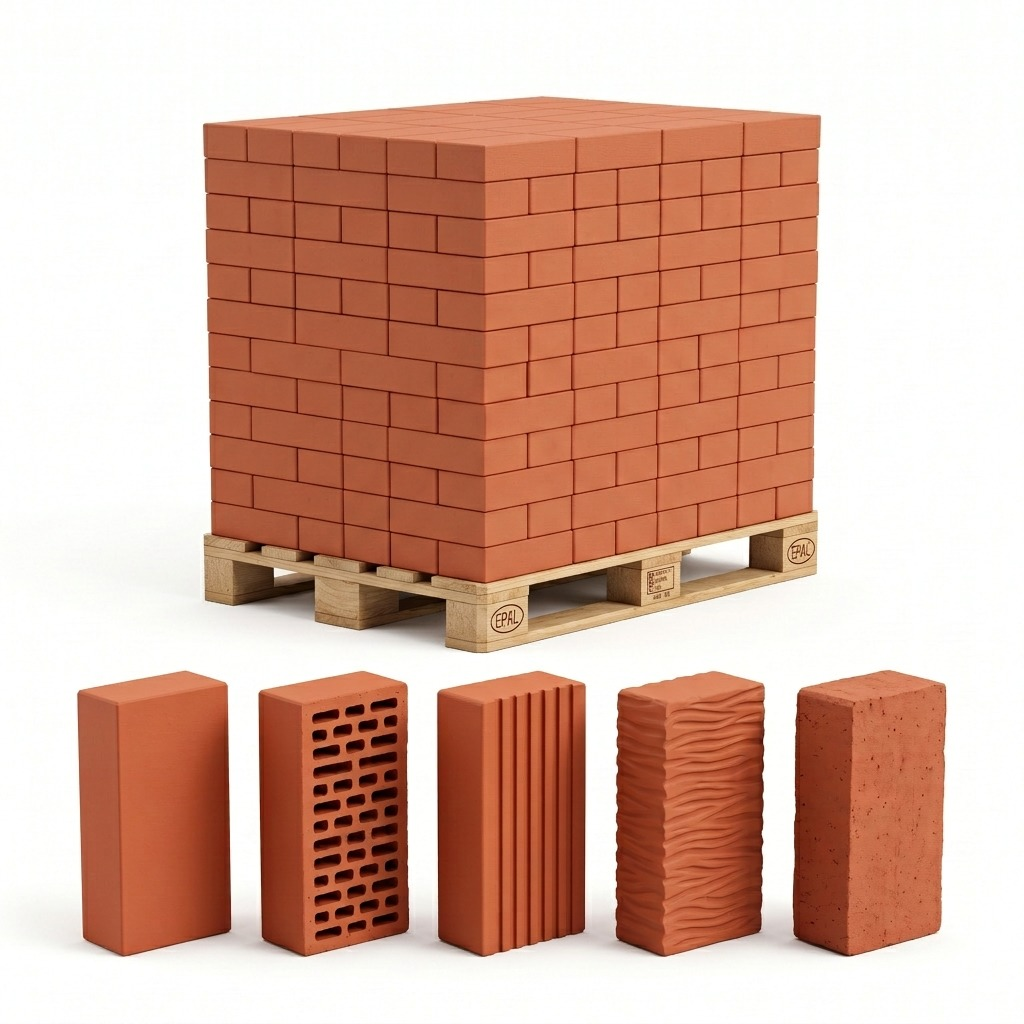
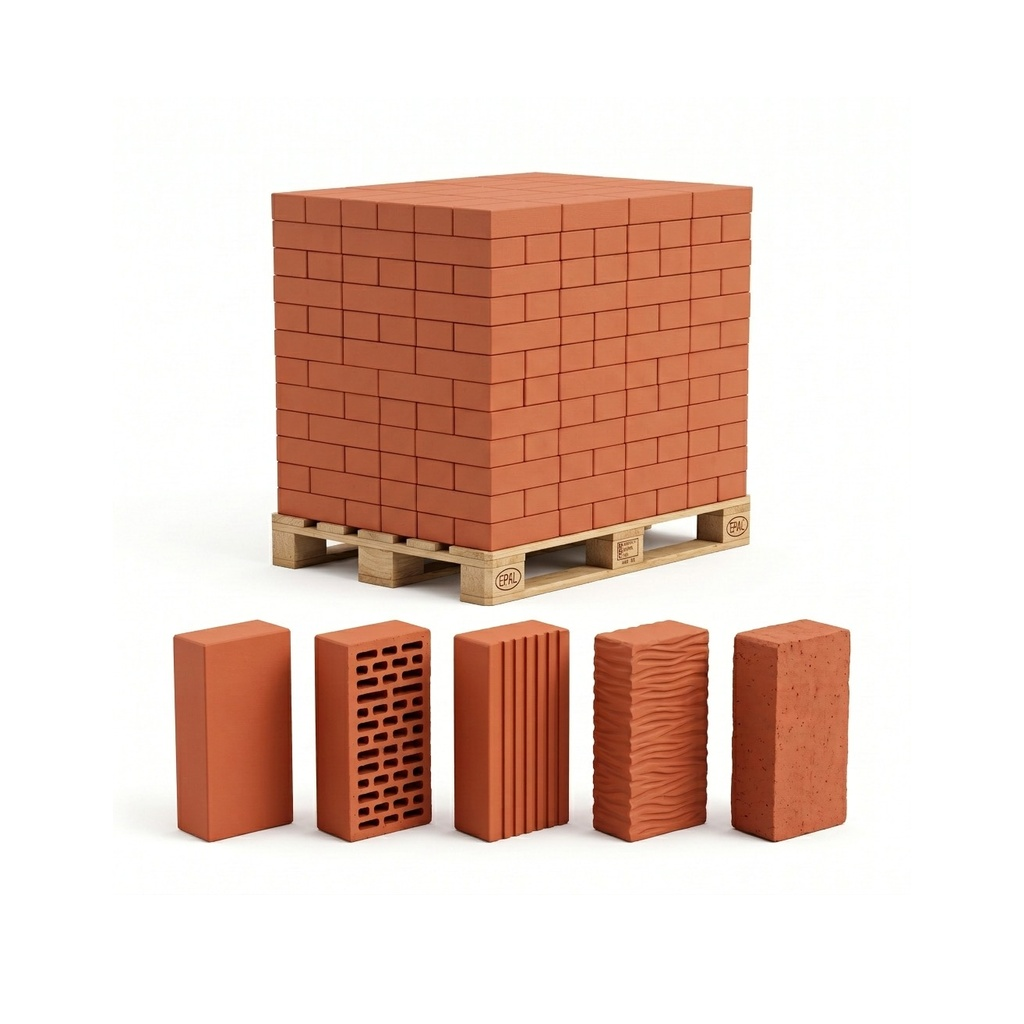
fix(catalog): выравнивание и кадрирование изображений первых трех категорий

diff --git a/index.html b/index.html
@@ -55,8 +55,8 @@
 
   <section class="hero">
     <picture>
-      <source media="(max-width: 47.9375em)" srcset="img/hero-home-mobile.jpg?v=10">
-      <img class="hero-photo" src="img/hero-home.jpg?v=10"
+      <source media="(max-width: 47.9375em)" srcset="img/hero-home-mobile.jpg?v=11">
+      <img class="hero-photo" src="img/hero-home.jpg?v=11"
            alt="Дом, облицованный кирпичом из каталога"
            width="1900" height="1010" fetchpriority="high">
     </picture>
@@ -87,12 +87,12 @@
 
   <section class="section" id="catalog"><div class="wrap">
     <div class="section-head"><h2>Каталог</h2></div>
-    <div class="tiles"><a class="tile" href="kirpich-oblitsovochnyy.html"><strong>Облицовочный кирпич<span>264&nbsp;вида, от&nbsp;18,50&nbsp;₽/шт</span></strong><img src="img/cat-oblic.jpg?v=10" alt="" width="320" height="240" loading="lazy"></a><a class="tile" href="kirpich-zabutovochnyy.html"><strong>Забутовочный кирпич<span>Фундамент, стены, перегородки</span></strong><img src="img/cat-brick.jpg?v=10" alt="" width="320" height="240" loading="lazy"></a><a class="tile" href="trotuarnaya-plitka.html"><strong>Тротуарная плитка<span>32&nbsp;расцветки в&nbsp;7&nbsp;формах, от&nbsp;650&nbsp;₽/м²</span></strong><img src="img/cat-tile.jpg?v=10" alt="" width="320" height="240" loading="lazy"></a><a class="tile" href="krovlya.html"><strong>Кровля и&nbsp;фасад<span>Металлочерепица, профнастил, штакетник, сайдинг</span></strong><img src="img/cat-roof.jpg?v=10" alt="" width="320" height="240" loading="lazy"></a><a class="tile" href="krovlya-sayding.html"><strong>Металлосайдинг<span>Фасад и&nbsp;софиты, 22&nbsp;цвета</span></strong><img src="img/cat-sayding.jpg?v=10" alt="" width="320" height="240" loading="lazy"></a></div>
+    <div class="tiles"><a class="tile" href="kirpich-oblitsovochnyy.html"><strong>Облицовочный кирпич<span>264&nbsp;вида, от&nbsp;18,50&nbsp;₽/шт</span></strong><img src="img/cat-oblic.jpg?v=11" alt="" width="320" height="240" loading="lazy"></a><a class="tile" href="kirpich-zabutovochnyy.html"><strong>Забутовочный кирпич<span>Фундамент, стены, перегородки</span></strong><img src="img/cat-brick.jpg?v=11" alt="" width="320" height="240" loading="lazy"></a><a class="tile" href="trotuarnaya-plitka.html"><strong>Тротуарная плитка<span>32&nbsp;расцветки в&nbsp;7&nbsp;формах, от&nbsp;650&nbsp;₽/м²</span></strong><img src="img/cat-tile.jpg?v=11" alt="" width="320" height="240" loading="lazy"></a><a class="tile" href="krovlya.html"><strong>Кровля и&nbsp;фасад<span>Металлочерепица, профнастил, штакетник, сайдинг</span></strong><img src="img/cat-roof.jpg?v=11" alt="" width="320" height="240" loading="lazy"></a><a class="tile" href="krovlya-sayding.html"><strong>Металлосайдинг<span>Фасад и&nbsp;софиты, 22&nbsp;цвета</span></strong><img src="img/cat-sayding.jpg?v=11" alt="" width="320" height="240" loading="lazy"></a></div>
     <p class="note mt">Поставляем также газоблок. Если позиции идут с&nbsp;одного
       завода, отгружаем их одной машиной — транспорт считается один раз.</p>
   </div></section>
 
-  <section class="section"><div class="wrap"><div class="promo-row"><a class="promo promo--accent" href="plitka-staryy-gorod.html"><span class="promo-text"><span class="promo-tag">Форма месяца</span><strong>Плитка «Старый город»</strong><span class="promo-sub">Классическая форма&nbsp;— 24&nbsp;расцветки от&nbsp;650&nbsp;₽/м²</span><span class="go">Подробнее</span></span><img src="img/plitka/shape-staryy-gorod.jpg?v=10" alt="" width="240" height="240" loading="lazy"></a><a class="promo" href="#lead"><span class="promo-text"><span class="promo-tag">Бесплатно</span><strong>Расчёт материала</strong><span class="promo-sub">Пришлите размеры — рассчитаем количество и&nbsp;запас</span><span class="go">Подробнее</span></span><img src="img/plitka/work-06.jpg?v=10" alt="" width="240" height="240" loading="lazy"></a><a class="promo" href="kirpich-oblitsovochnyy.html?sort=new"><span class="promo-text"><span class="promo-tag">Новинки</span><strong>Новые цвета кирпича</strong><span class="promo-sub">Свежие партии заводов — в&nbsp;каталоге облицовочного</span><span class="go">Подробнее</span></span><img src="img/catalog/kla-003.jpg?v=10" alt="" width="240" height="240" loading="lazy"></a></div></div></section>
+  <section class="section"><div class="wrap"><div class="promo-row"><a class="promo promo--accent" href="plitka-staryy-gorod.html"><span class="promo-text"><span class="promo-tag">Форма месяца</span><strong>Плитка «Старый город»</strong><span class="promo-sub">Классическая форма&nbsp;— 24&nbsp;расцветки от&nbsp;650&nbsp;₽/м²</span><span class="go">Подробнее</span></span><img src="img/plitka/shape-staryy-gorod.jpg?v=11" alt="" width="240" height="240" loading="lazy"></a><a class="promo" href="#lead"><span class="promo-text"><span class="promo-tag">Бесплатно</span><strong>Расчёт материала</strong><span class="promo-sub">Пришлите размеры — рассчитаем количество и&nbsp;запас</span><span class="go">Подробнее</span></span><img src="img/plitka/work-06.jpg?v=11" alt="" width="240" height="240" loading="lazy"></a><a class="promo" href="kirpich-oblitsovochnyy.html?sort=new"><span class="promo-text"><span class="promo-tag">Новинки</span><strong>Новые цвета кирпича</strong><span class="promo-sub">Свежие партии заводов — в&nbsp;каталоге облицовочного</span><span class="go">Подробнее</span></span><img src="img/catalog/kla-003.jpg?v=11" alt="" width="240" height="240" loading="lazy"></a></div></div></section>
 
   <section class="band"><div class="wrap">
     <ul class="terms-strip"><li class="brick-mark">Напрямую с&nbsp;заводов</li><li class="brick-mark">Доставка на&nbsp;объект</li><li class="brick-mark">Наличный и&nbsp;безналичный расчёт</li><li class="brick-mark">Бесплатный расчёт количества</li></ul>
@@ -102,25 +102,25 @@
     <div class="section-head"><h2>Кирпич и&nbsp;плитка из&nbsp;каталога</h2>
       <a class="see-all" href="#catalog">Все разделы</a></div>
     <div class="p-grid"><article class="p-card">
-  <div class="p-shot"><img class="p-img" src="img/catalog/kla-024.jpg?v=10" alt="Кирпич Красный" width="640" height="480" loading="lazy"><button class="p-add" type="button" data-add data-add-icon data-id="kla-024" data-name="Кирпич Красный" data-price="22.3" data-unit="шт" data-img="img/catalog/kla-024.jpg" data-url="tovar/kirpich-kla-024.html" data-root="" aria-label="Добавить в заявку: Кирпич Красный" title="В заявку"><svg viewBox="0 0 24 24" fill="none" stroke="currentColor" stroke-width="1.8" stroke-linecap="round" stroke-linejoin="round" aria-hidden="true"><path d="M6 3h9v18l-4.5-3.2L6 21z"/><path d="M18.5 4.5v6M15.5 7.5h6"/></svg></button></div>
+  <div class="p-shot"><img class="p-img" src="img/catalog/kla-024.jpg?v=11" alt="Кирпич Красный" width="640" height="480" loading="lazy"><button class="p-add" type="button" data-add data-add-icon data-id="kla-024" data-name="Кирпич Красный" data-price="22.3" data-unit="шт" data-img="img/catalog/kla-024.jpg" data-url="tovar/kirpich-kla-024.html" data-root="" aria-label="Добавить в заявку: Кирпич Красный" title="В заявку"><svg viewBox="0 0 24 24" fill="none" stroke="currentColor" stroke-width="1.8" stroke-linecap="round" stroke-linejoin="round" aria-hidden="true"><path d="M6 3h9v18l-4.5-3.2L6 21z"/><path d="M18.5 4.5v6M15.5 7.5h6"/></svg></button></div>
   <div class="p-in">
     <a class="p-name" href="tovar/kirpich-kla-024.html">Кирпич Красный</a>
     <p class="p-zavod">Донской кирпич</p><p class="p-price"><b>22,</b><small>30&nbsp;₽/шт</small></p><p class="p-m2">= 1&nbsp;150&nbsp;₽/м² кладки</p><p class="p-stock"><svg viewBox="0 0 24 24" fill="none" stroke="currentColor" stroke-width="1.95" stroke-linecap="round" stroke-linejoin="round" aria-hidden="true"><path d="M4 20V9l8-5 8 5v11"/><path d="M9 20v-6h6v6"/></svg><i>Поставка с&nbsp;завода</i></p>
   </div>
 </article><article class="p-card">
-  <div class="p-shot"><img class="p-img" src="img/catalog/pal-017.jpg?v=10" alt="Кирпич Классика" width="640" height="480" loading="lazy"><button class="p-add" type="button" data-add data-add-icon data-id="pal-017" data-name="Кирпич Классика" data-price="25.64" data-unit="шт" data-img="img/catalog/pal-017.jpg" data-url="tovar/kirpich-pal-017.html" data-root="" aria-label="Добавить в заявку: Кирпич Классика" title="В заявку"><svg viewBox="0 0 24 24" fill="none" stroke="currentColor" stroke-width="1.8" stroke-linecap="round" stroke-linejoin="round" aria-hidden="true"><path d="M6 3h9v18l-4.5-3.2L6 21z"/><path d="M18.5 4.5v6M15.5 7.5h6"/></svg></button></div>
+  <div class="p-shot"><img class="p-img" src="img/catalog/pal-017.jpg?v=11" alt="Кирпич Классика" width="640" height="480" loading="lazy"><button class="p-add" type="button" data-add data-add-icon data-id="pal-017" data-name="Кирпич Классика" data-price="25.64" data-unit="шт" data-img="img/catalog/pal-017.jpg" data-url="tovar/kirpich-pal-017.html" data-root="" aria-label="Добавить в заявку: Кирпич Классика" title="В заявку"><svg viewBox="0 0 24 24" fill="none" stroke="currentColor" stroke-width="1.8" stroke-linecap="round" stroke-linejoin="round" aria-hidden="true"><path d="M6 3h9v18l-4.5-3.2L6 21z"/><path d="M18.5 4.5v6M15.5 7.5h6"/></svg></button></div>
   <div class="p-in">
     <a class="p-name" href="tovar/kirpich-pal-017.html">Кирпич Классика</a>
     <p class="p-zavod">Губский кирпичный завод</p><p class="p-price"><b>25,</b><small>64&nbsp;₽/шт</small></p><p class="p-m2">= 1&nbsp;320&nbsp;₽/м² кладки</p><p class="p-stock"><svg viewBox="0 0 24 24" fill="none" stroke="currentColor" stroke-width="1.95" stroke-linecap="round" stroke-linejoin="round" aria-hidden="true"><path d="M4 20V9l8-5 8 5v11"/><path d="M9 20v-6h6v6"/></svg><i>Поставка с&nbsp;завода</i></p>
   </div>
 </article><article class="p-card">
-  <div class="p-shot"><img class="p-img" src="img/catalog/evr-003.jpg?v=10" alt="Кирпич Венеция Кроста" width="640" height="480" loading="lazy"><button class="p-add" type="button" data-add data-add-icon data-id="evr-003" data-name="Кирпич Венеция Кроста" data-price="47.0" data-unit="шт" data-img="img/catalog/evr-003.jpg" data-url="tovar/kirpich-evr-003.html" data-root="" aria-label="Добавить в заявку: Кирпич Венеция Кроста" title="В заявку"><svg viewBox="0 0 24 24" fill="none" stroke="currentColor" stroke-width="1.8" stroke-linecap="round" stroke-linejoin="round" aria-hidden="true"><path d="M6 3h9v18l-4.5-3.2L6 21z"/><path d="M18.5 4.5v6M15.5 7.5h6"/></svg></button></div>
+  <div class="p-shot"><img class="p-img" src="img/catalog/evr-003.jpg?v=11" alt="Кирпич Венеция Кроста" width="640" height="480" loading="lazy"><button class="p-add" type="button" data-add data-add-icon data-id="evr-003" data-name="Кирпич Венеция Кроста" data-price="47.0" data-unit="шт" data-img="img/catalog/evr-003.jpg" data-url="tovar/kirpich-evr-003.html" data-root="" aria-label="Добавить в заявку: Кирпич Венеция Кроста" title="В заявку"><svg viewBox="0 0 24 24" fill="none" stroke="currentColor" stroke-width="1.8" stroke-linecap="round" stroke-linejoin="round" aria-hidden="true"><path d="M6 3h9v18l-4.5-3.2L6 21z"/><path d="M18.5 4.5v6M15.5 7.5h6"/></svg></button></div>
   <div class="p-in">
     <a class="p-name" href="tovar/kirpich-evr-003.html">Кирпич Венеция Кроста</a>
     <p class="p-zavod">Славянский кирпич</p><p class="p-price"><b>47 </b><small>₽/шт</small></p><p class="p-m2">= 2&nbsp;420&nbsp;₽/м² кладки</p><p class="p-stock"><svg viewBox="0 0 24 24" fill="none" stroke="currentColor" stroke-width="1.95" stroke-linecap="round" stroke-linejoin="round" aria-hidden="true"><path d="M4 20V9l8-5 8 5v11"/><path d="M9 20v-6h6v6"/></svg><i>Поставка с&nbsp;завода</i></p>
   </div>
 </article><article class="p-card">
-  <div class="p-shot"><img class="p-img" src="img/catalog/for-009.jpg?v=10" alt="Кирпич Алабино 0,5WDF" width="640" height="480" loading="lazy"><button class="p-add" type="button" data-add data-add-icon data-id="for-009" data-name="Кирпич Алабино 0,5WDF" data-price="54.8" data-unit="шт" data-img="img/catalog/for-009.jpg" data-url="tovar/kirpich-for-009.html" data-root="" aria-label="Добавить в заявку: Кирпич Алабино 0,5WDF" title="В заявку"><svg viewBox="0 0 24 24" fill="none" stroke="currentColor" stroke-width="1.8" stroke-linecap="round" stroke-linejoin="round" aria-hidden="true"><path d="M6 3h9v18l-4.5-3.2L6 21z"/><path d="M18.5 4.5v6M15.5 7.5h6"/></svg></button></div>
+  <div class="p-shot"><img class="p-img" src="img/catalog/for-009.jpg?v=11" alt="Кирпич Алабино 0,5WDF" width="640" height="480" loading="lazy"><button class="p-add" type="button" data-add data-add-icon data-id="for-009" data-name="Кирпич Алабино 0,5WDF" data-price="54.8" data-unit="шт" data-img="img/catalog/for-009.jpg" data-url="tovar/kirpich-for-009.html" data-root="" aria-label="Добавить в заявку: Кирпич Алабино 0,5WDF" title="В заявку"><svg viewBox="0 0 24 24" fill="none" stroke="currentColor" stroke-width="1.8" stroke-linecap="round" stroke-linejoin="round" aria-hidden="true"><path d="M6 3h9v18l-4.5-3.2L6 21z"/><path d="M18.5 4.5v6M15.5 7.5h6"/></svg></button></div>
   <div class="p-in">
     <a class="p-name" href="tovar/kirpich-for-009.html">Кирпич Алабино 0,5WDF</a>
     <p class="p-zavod">Тандем</p><p class="p-price"><b>54,</b><small>80&nbsp;₽/шт</small></p><p class="p-m2">= 2&nbsp;820&nbsp;₽/м² кладки</p><p class="p-stock"><svg viewBox="0 0 24 24" fill="none" stroke="currentColor" stroke-width="1.95" stroke-linecap="round" stroke-linejoin="round" aria-hidden="true"><path d="M4 20V9l8-5 8 5v11"/><path d="M9 20v-6h6v6"/></svg><i>Поставка с&nbsp;завода</i></p>

diff --git a/akcii.html b/akcii.html
@@ -61,7 +61,7 @@
   </div></section>
 
   <section class="section"><div class="wrap">
-    <div class="promo-row promo-row--wrap"><a class="promo promo--accent" href="plitka-staryy-gorod.html"><span class="promo-text"><span class="promo-tag">Форма месяца</span><strong>Плитка «Старый город»</strong><span class="promo-sub">Классическая форма&nbsp;— 24&nbsp;расцветки от&nbsp;650&nbsp;₽/м²</span><span class="go">Подробнее</span></span><img src="img/plitka/shape-staryy-gorod.jpg?v=10" alt="" width="240" height="240" loading="lazy"></a><a class="promo" href="#lead"><span class="promo-text"><span class="promo-tag">Бесплатно</span><strong>Расчёт материала</strong><span class="promo-sub">Пришлите размеры — рассчитаем количество и&nbsp;запас</span><span class="go">Подробнее</span></span><img src="img/plitka/work-06.jpg?v=10" alt="" width="240" height="240" loading="lazy"></a><a class="promo" href="kirpich-oblitsovochnyy.html?sort=new"><span class="promo-text"><span class="promo-tag">Новинки</span><strong>Новые цвета кирпича</strong><span class="promo-sub">Свежие партии заводов — в&nbsp;каталоге облицовочного</span><span class="go">Подробнее</span></span><img src="img/catalog/kla-003.jpg?v=10" alt="" width="240" height="240" loading="lazy"></a></div>
+    <div class="promo-row promo-row--wrap"><a class="promo promo--accent" href="plitka-staryy-gorod.html"><span class="promo-text"><span class="promo-tag">Форма месяца</span><strong>Плитка «Старый город»</strong><span class="promo-sub">Классическая форма&nbsp;— 24&nbsp;расцветки от&nbsp;650&nbsp;₽/м²</span><span class="go">Подробнее</span></span><img src="img/plitka/shape-staryy-gorod.jpg?v=11" alt="" width="240" height="240" loading="lazy"></a><a class="promo" href="#lead"><span class="promo-text"><span class="promo-tag">Бесплатно</span><strong>Расчёт материала</strong><span class="promo-sub">Пришлите размеры — рассчитаем количество и&nbsp;запас</span><span class="go">Подробнее</span></span><img src="img/plitka/work-06.jpg?v=11" alt="" width="240" height="240" loading="lazy"></a><a class="promo" href="kirpich-oblitsovochnyy.html?sort=new"><span class="promo-text"><span class="promo-tag">Новинки</span><strong>Новые цвета кирпича</strong><span class="promo-sub">Свежие партии заводов — в&nbsp;каталоге облицовочного</span><span class="go">Подробнее</span></span><img src="img/catalog/kla-003.jpg?v=11" alt="" width="240" height="240" loading="lazy"></a></div>
   </div></section>
 
   <section class="section"><div class="wrap">

diff --git a/tools/build_site.py b/tools/build_site.py
@@ -27,7 +27,7 @@ TILES = json.loads((BASE / "_data" / "tiles.json").read_text())
 BRICK = [p for p in CAT if p["category"] == "oblitsovochnyy" and p.get("price")]
 TILE = [p for p in TILES["products"] if p.get("price")]
 
-IMG_V = 10
+IMG_V = 11
 
 # Имена заводов для строки под названием товара. Ключи — те же, что
 # в build_category.COLLECTIONS (менять там и здесь одновременно).
